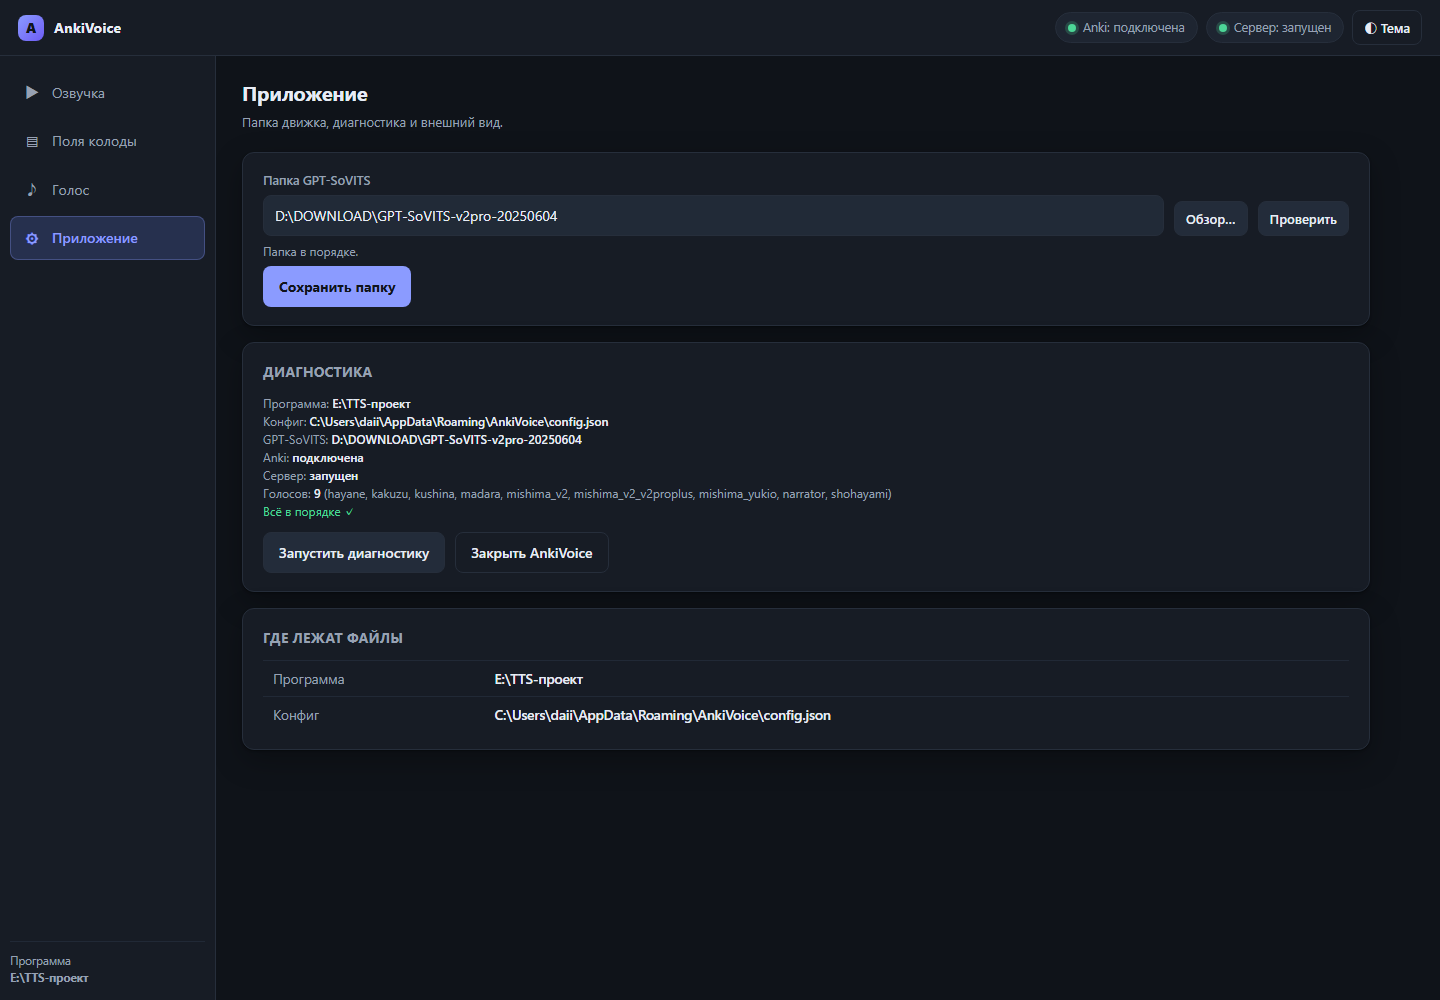
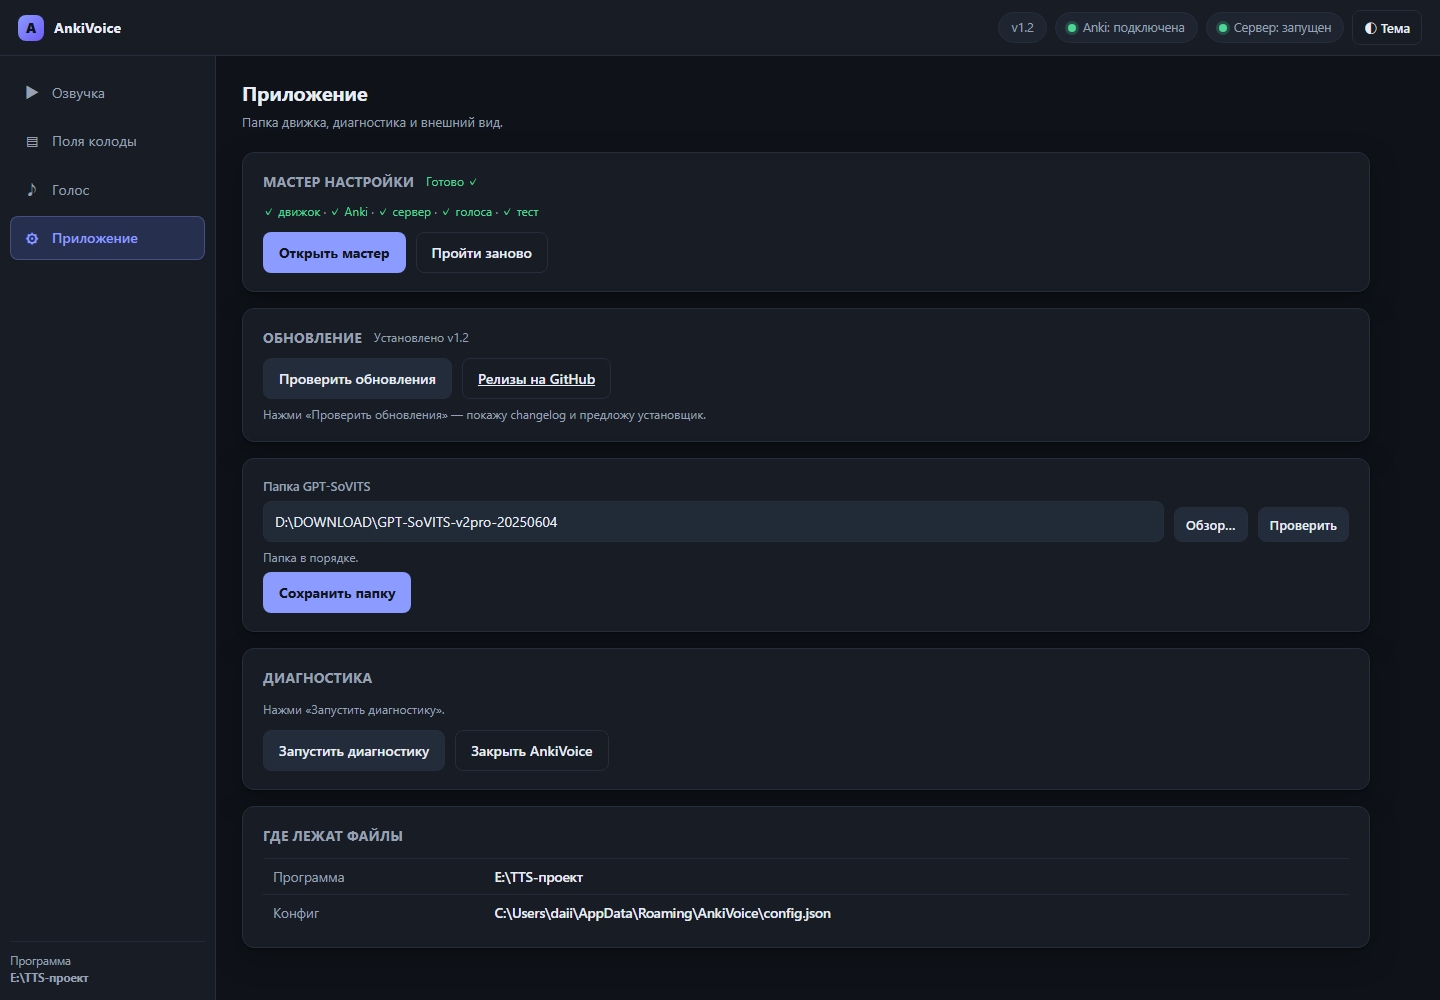
fix: reopen the wizard until setup is done and serialize update downloads
Closing the wizard used to set a localStorage flag that disabled the automatic popup forever, so an unfinished setup stayed hidden. The wizard now opens on every launch while the setup is incomplete. The download also takes a checking phase before the GitHub request, so two quick clicks cannot start two threads writing into the same file.

diff --git a/anki_web.py b/anki_web.py
@@ -442,26 +442,36 @@ def _update_set(**kw):
 
 def start_update_download():
     with UPDATE_LOCK:
-        if UPDATE["phase"] in ("downloading", "verifying"):
+        if UPDATE["phase"] in ("checking", "downloading", "verifying"):
             # снимок собираем здесь же: update_snapshot() берёт тот же
             # нереентерабельный UPDATE_LOCK и повесил бы поток навсегда
             d = dict(UPDATE)
             d["percent"] = (min(100, int(d["received"] * 100 / d["total"]))
                             if d["total"] else 0)
             return d, None
+        # ставим фазу ДО сетевого запроса: два быстрых клика иначе могли
+        # запустить два потока, пишущих в один .part
+        UPDATE.update(phase="checking", received=0, total=0, error="",
+                      path="", expected="", actual="", tag="", asset="")
     try:
         info = release_info()
     except Exception as e:
+        _update_set(phase="error", error="Не удалось проверить обновления: %s" % (e,))
         return None, "Не удалось проверить обновления: %s" % (e,)
     if not info.get("available"):
+        _update_set(phase="idle")
         return None, "Установленная версия уже последняя."
     asset = info.get("asset") or {}
     if not asset.get("url"):
+        _update_set(phase="error",
+                    error="В релизе нет установщика AnkiVoice-Setup-*.exe.")
         return None, "В релизе нет установщика AnkiVoice-Setup-*.exe."
     expected = (asset.get("sha256") or "").lower()
     if not re.match(r"^[0-9a-f]{64}$", expected):
-        return None, ("В релизе нет SHA256 установщика — скачивание "
-                      "без проверки запрещено.")
+        msg = ("В релизе нет SHA256 установщика — скачивание "
+               "без проверки запрещено.")
+        _update_set(phase="error", error=msg)
+        return None, msg
     name = os.path.basename(asset.get("name") or "")
     if not re.match(r"^AnkiVoice-Setup-[0-9A-Za-z._-]+\.exe$", name):
         safe = re.sub(r"[^0-9A-Za-z._-]+", "_",

diff --git a/anki_web_page.py b/anki_web_page.py
@@ -1435,7 +1435,6 @@ function openWizard(step){
 function closeWizard(){
   WZ.open = false;
   $("wizardOverlay").classList.remove("on");
-  try{ localStorage.setItem("avWizardSeen", "1"); }catch(e){}
 }
 function renderWizard(){
   const s = WZ.setup;
@@ -1758,7 +1757,9 @@ function renderUpdateProgress(s){
   const total = s.total || 0, got = s.received || 0;
   const pct = s.percent || (total ? Math.min(100, Math.round(got*100/total)) : 0);
   let h = "";
-  if(s.phase === "downloading" || s.phase === "verifying"){
+  if(s.phase === "checking"){
+    h = '<div>Проверяю релиз на GitHub…</div>';
+  }else if(s.phase === "downloading" || s.phase === "verifying"){
     h = '<div>Скачиваю установщик…</div>'+
       '<div class="update-bar"><i style="width:'+pct+'%"></i></div>'+
       '<div class="update-meta">'+fmtMb(got)+' из '+fmtMb(total)+' · '+pct+'%</div>';
@@ -1820,9 +1821,9 @@ $("btnUpdate").onclick = checkUpdates;
   await loadState();
   try{
     await loadSetup();
-    let seen = false;
-    try{ seen = !!localStorage.getItem("avWizardSeen"); }catch(e){}
-    if(WZ.setup && !WZ.setup.complete && !seen){
+    // Пока настройка не завершена, мастер открывается при каждом запуске.
+    // Раньше закрытие ставило avWizardSeen и навсегда отключало этот показ.
+    if(WZ.setup && !WZ.setup.complete){
       setTimeout(()=>{ if(!WZ.open) openWizard(); }, 450);
     }
   }catch(e){

diff --git a/lab/test_v12_features.py b/lab/test_v12_features.py
@@ -115,6 +115,11 @@ def test_busy_download_no_deadlock():
         check(err is None, "busy re-entry error")
         check(snap["phase"] == "downloading", "busy phase")
         check(snap["percent"] == 50, "busy percent")
+
+        with aw.UPDATE_LOCK:
+            aw.UPDATE.update(phase="checking", received=0, total=0)
+        snap2, err2 = aw.start_update_download()
+        check(err2 is None and snap2["phase"] == "checking", "checking re-entry")
     finally:
         with aw.UPDATE_LOCK:
             aw.UPDATE.clear()
